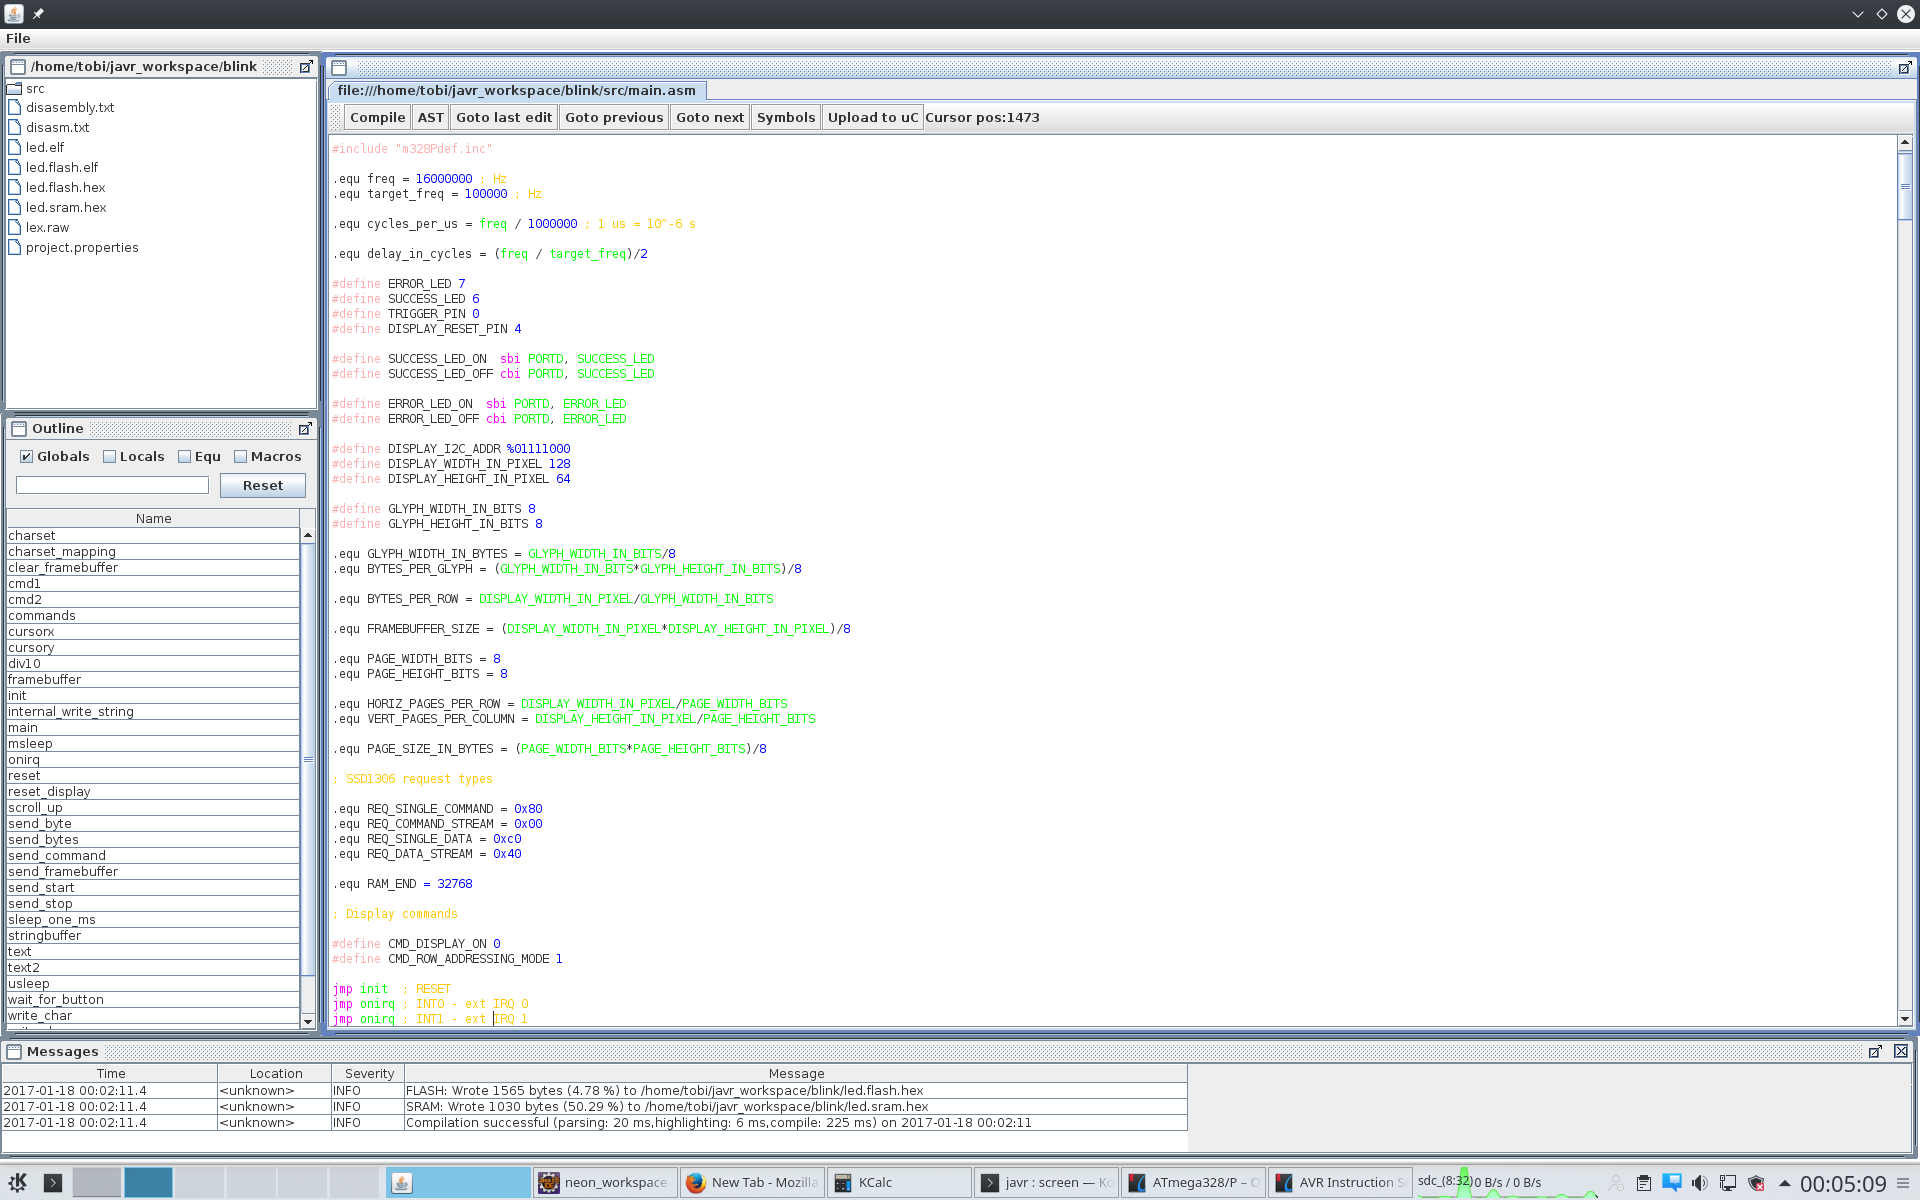
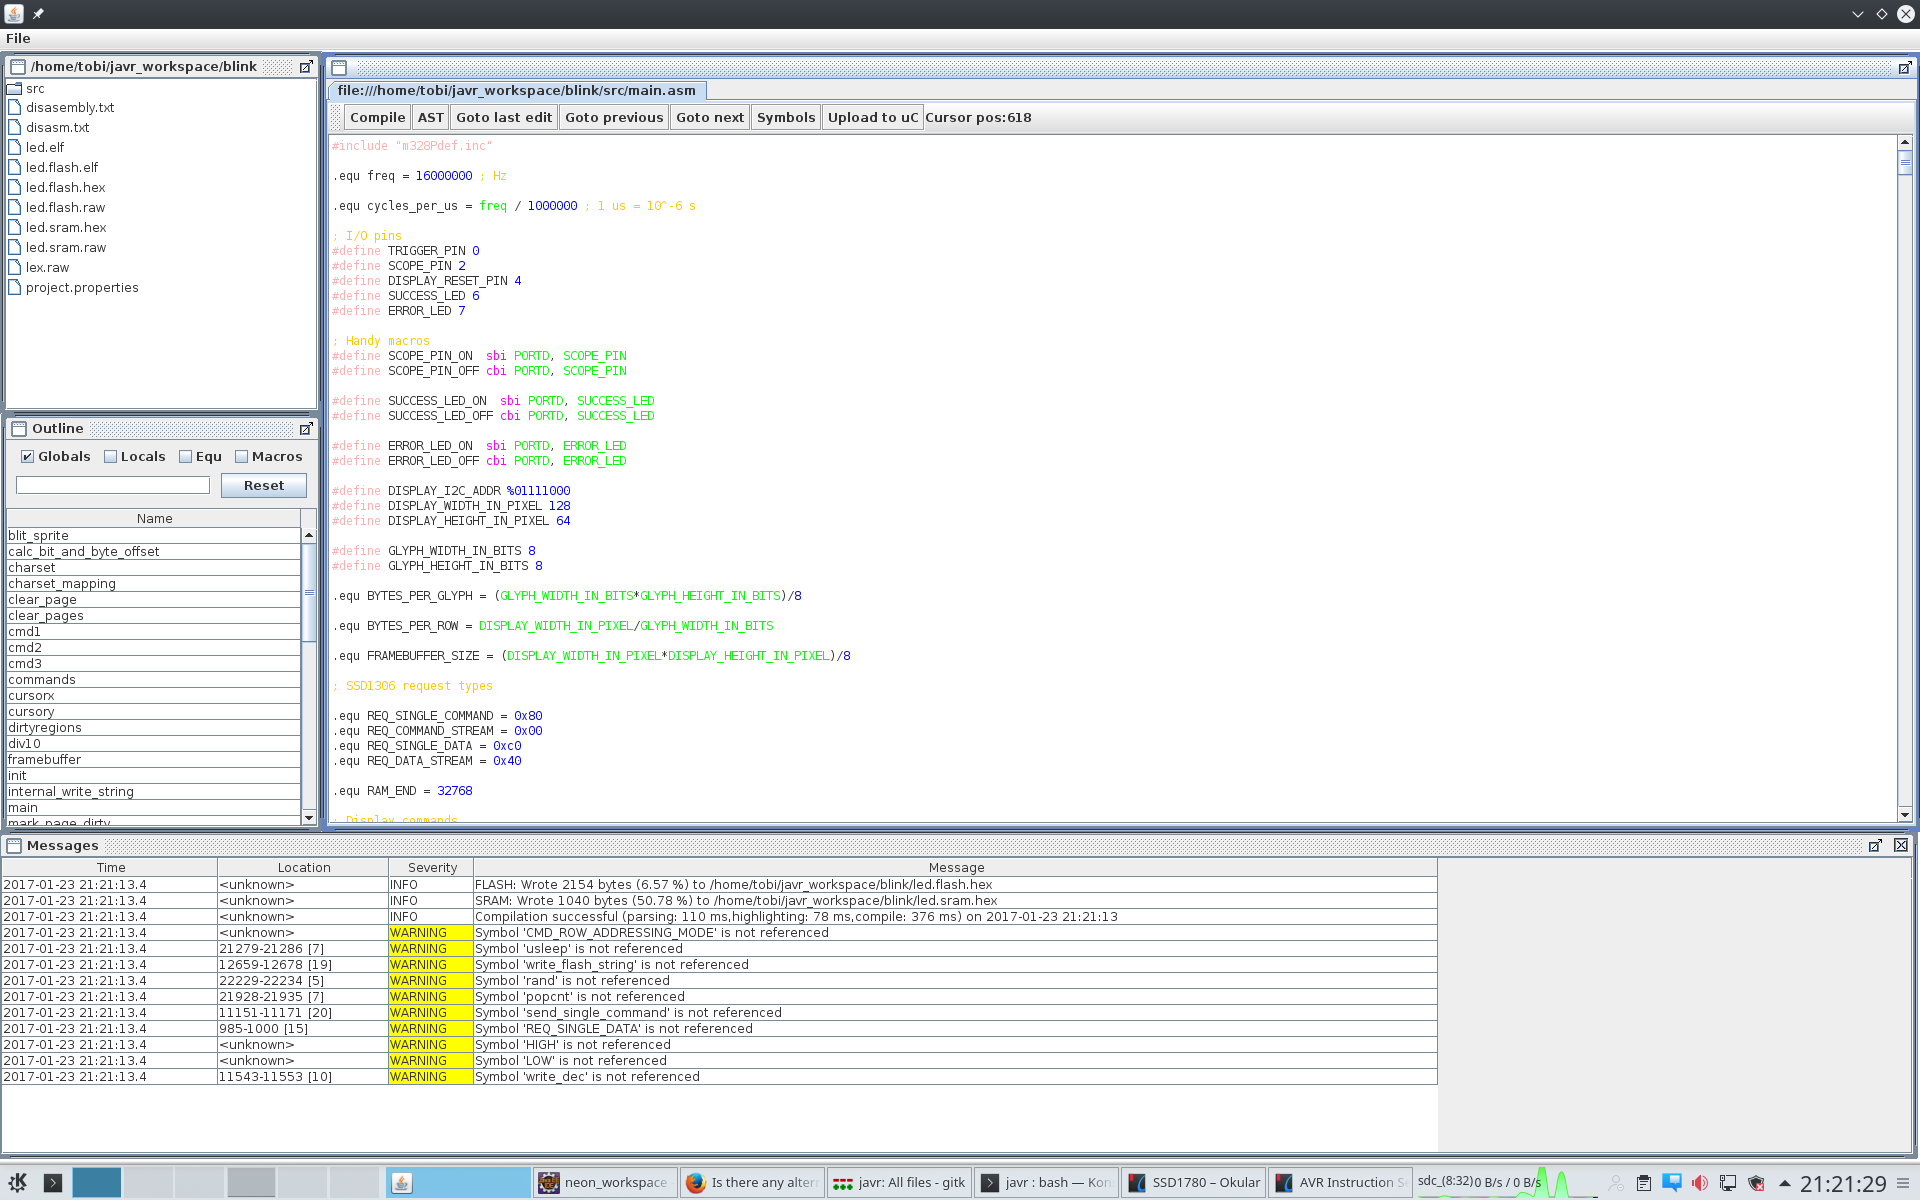
added warnings for unreferenced symbols,double-clicking nodes in AST view jumps to text location

diff --git a/src/main/java/de/codesourcery/javr/ui/panels/EditorPanel.java b/src/main/java/de/codesourcery/javr/ui/panels/EditorPanel.java
@@ -49,7 +49,6 @@ import java.util.List;
 import java.util.concurrent.atomic.AtomicBoolean;
 import java.util.function.Consumer;
 import java.util.function.Function;
-import java.util.function.IntSupplier;
 
 import javax.swing.JButton;
 import javax.swing.JFrame;
@@ -126,9 +125,9 @@ import de.codesourcery.javr.assembler.symbols.Symbol;
 import de.codesourcery.javr.assembler.symbols.SymbolTable;
 import de.codesourcery.javr.assembler.util.Resource;
 import de.codesourcery.javr.assembler.util.StringResource;
-import de.codesourcery.javr.ui.EditorSettings.SourceElement;
 import de.codesourcery.javr.ui.CaretPositionTracker;
 import de.codesourcery.javr.ui.CaretPositionTracker.CaretPosition;
+import de.codesourcery.javr.ui.EditorSettings.SourceElement;
 import de.codesourcery.javr.ui.IDEMain;
 import de.codesourcery.javr.ui.IProject;
 import de.codesourcery.javr.ui.config.IApplicationConfig;
@@ -167,7 +166,7 @@ public class EditorPanel extends JPanel
 	private JFrame searchWindow = null;
 
 	private JFrame symbolWindow = null;
-
+	
 	private final SymbolTableModel symbolModel = new SymbolTableModel();
 
 	private final RecompilationThread recompilationThread = new RecompilationThread();
@@ -1129,7 +1128,7 @@ public class EditorPanel extends JPanel
 		{
 		    final CompilerSettings compilerSettings = new CompilerSettings();
 		    final IObjectCodeWriter writer = new ObjectCodeWriter();
-            final SymbolTable globalSymbolTable = new SymbolTable( SymbolTable.GLOBAL ); // fake global symbol table so we don't fail parsing because of duplicate symbols
+            final SymbolTable globalSymbolTable = new SymbolTable( SymbolTable.GLOBAL ); // fake global symbol table so we don't fail parsing because of duplicate symbols already in the real one
 			final ICompilationContext context = new CompilationContext( tmpUnit , globalSymbolTable , writer , project , compilerSettings , project.getConfig() );
 
             ParseSourcePhase.parseWithoutIncludes( context, tmpUnit , project );
@@ -1150,7 +1149,6 @@ public class EditorPanel extends JPanel
 		try 
 		{
 			compilationSuccessful = project.compile();
-
 		} 
 		catch(Exception e) 
 		{
@@ -1158,7 +1156,7 @@ public class EditorPanel extends JPanel
 			root.addMessage( toCompilationMessage( currentUnit, e ) );
 		}
 		symbolModel.setSymbolTable( currentUnit.getSymbolTable() );    
-
+		
 		final long compileEnd =  System.currentTimeMillis();
 		
 		final String success = compilationSuccessful ? "successful" : "failed"; 
@@ -1173,6 +1171,23 @@ public class EditorPanel extends JPanel
 		currentUnit.addMessage( CompilationMessage.info(currentUnit,"Compilation "+success+" ("+assembleTime+") on "+df.format( ZonedDateTime.now() ) ) );
 
         final List<CompilationMessage> allMessages = root.getMessages(true);
+        
+        // create warnings for symbols defined in this unit but not used anywhere
+        if ( compilationSuccessful ) 
+        {
+            project.getGlobalSymbolTable().visitSymbols( (symbol) -> 
+            {
+                if ( symbol.getCompilationUnit().hasSameResourceAs( this.currentUnit ) ) 
+                {
+                    if ( ! symbol.isReferenced() ) 
+                    {
+                        allMessages.add( CompilationMessage.warning( currentUnit, "Symbol '"+symbol.name()+"' is not referenced" , symbol.getNode() ) );
+                    }
+                }
+                return true;
+            });
+        }
+        
         messageFrame.addAll( allMessages );        
         
         wasCompiledAtLeastOnce = true;
@@ -1357,6 +1372,24 @@ public class EditorPanel extends JPanel
 		});
 
 		final JTree tree = new JTree( astTreeModel );
+		
+		tree.addMouseListener( new MouseAdapter() 
+		{
+		    public void mouseClicked(MouseEvent e) 
+		    {
+		        if ( e.getClickCount() == 2 && e.getButton() == MouseEvent.BUTTON1 ) 
+		        {
+		            final TreePath path = tree.getClosestPathForLocation( e.getX() ,  e.getY() );
+		            if ( path != null && path.getPath() != null && path.getPath().length >= 1 ) 
+		            {
+		                final ASTNode node = (ASTNode) path.getLastPathComponent();
+		                if ( node.getTextRegion() != null ) {
+		                    setSelection( node.getTextRegion() );
+		                }
+		            }
+		        }
+		    }
+		});
 
 		tree.setCellRenderer( new DefaultTreeCellRenderer() 
 		{
@@ -1378,18 +1411,18 @@ public class EditorPanel extends JPanel
 					else  if ( node instanceof PreprocessorNode) {
 						text = "#"+((PreprocessorNode) node).type.literal;
 					} else if ( node instanceof OperatorNode) {
-						text = "Operator: "+((OperatorNode) node).type.getSymbol();
+						text = "OperatorNode: "+((OperatorNode) node).type.getSymbol();
 					} else  if ( node instanceof IdentifierNode) {
-						text = "identifier: "+((IdentifierNode) node).name.value;
+						text = "IdentifierNode: "+((IdentifierNode) node).name.value;
 					}
 					else if ( node instanceof StatementNode) {
-						text = "statement";
+						text = "StatementNode";
 					}                     
 					else if ( node instanceof LabelNode) {
-						text = "label:"+((LabelNode) node).identifier.value;
+						text = "LabelNode:"+((LabelNode) node).identifier.value;
 					} 
 					else if ( node instanceof CommentNode) {
-						text = "comment: "+((CommentNode) node).value;
+						text = "CommentNode: "+((CommentNode) node).value;
 					}                     
 					else if ( node instanceof NumberLiteralNode ) 
 					{

diff --git a/src/main/java/de/codesourcery/javr/assembler/parser/ast/FunctionCallNode.java b/src/main/java/de/codesourcery/javr/assembler/parser/ast/FunctionCallNode.java
@@ -29,6 +29,8 @@ import de.codesourcery.javr.assembler.symbols.Symbol.Type;
 public class FunctionCallNode extends AbstractASTNode implements IValueNode, Resolvable {
 
     public static final Identifier BUILDIN_FUNCTION_DEFINED = new Identifier("defined");
+    public static final Identifier BUILDIN_FUNCTION_HIGH = new Identifier("HIGH");
+    public static final Identifier BUILDIN_FUNCTION_LOW = new Identifier("LOW");
     
     public final Identifier functionName;
     
@@ -51,7 +53,6 @@ public class FunctionCallNode extends AbstractASTNode implements IValueNode, Res
         if ( childCount() == 1 ) 
         {
             final IValueNode child = (IValueNode) child(0);
-            final String name = functionName.value;
             if ( BUILDIN_FUNCTION_DEFINED.equals( functionName ) )
             {
                 if ( !(child instanceof IdentifierNode )) {
@@ -60,10 +61,11 @@ public class FunctionCallNode extends AbstractASTNode implements IValueNode, Res
                 }
                 final Identifier identifier = ((IdentifierNode) child).name;
                 final Optional<Symbol> result = context.currentSymbolTable().maybeGet( identifier );
+                result.ifPresent( s -> s.markAsReferenced() );
                 this.value = result.isPresent() && result.get().getType() == Type.PREPROCESSOR_MACRO;
                 return true;
             } 
-            if ( name.equals("HIGH") || name.equals("LOW" ) ) 
+            if ( functionName.equals( BUILDIN_FUNCTION_HIGH ) || functionName.equals( BUILDIN_FUNCTION_LOW ) ) 
             {
                 if ( child instanceof Resolvable) {
                     ((Resolvable) child).resolve( context );
@@ -81,7 +83,8 @@ public class FunctionCallNode extends AbstractASTNode implements IValueNode, Res
                     return false;
                 }
                 
-                switch ( name ) {
+                switch ( functionName.value ) 
+                {
                     case "HIGH": v = ( v.longValue() >>> 8 ) & 0xff; break;
                     case "LOW": v = v.longValue() & 0xff; break;
                     default: 
@@ -90,7 +93,7 @@ public class FunctionCallNode extends AbstractASTNode implements IValueNode, Res
                 this.value = v;
                 return true;
             }
-            context.error("Unknown built-in function "+name,this);
+            context.error("Unknown function "+functionName.value,this);
         } else {
             System.out.println(">>>> function with no arguments?");
         }

diff --git a/src/main/java/de/codesourcery/javr/assembler/phases/PrepareGenerateCodePhase.java b/src/main/java/de/codesourcery/javr/assembler/phases/PrepareGenerateCodePhase.java
@@ -15,12 +15,11 @@
  */
 package de.codesourcery.javr.assembler.phases;
 
-import java.util.List;
+import java.util.Optional;
 
 import org.apache.log4j.Logger;
 
 import de.codesourcery.javr.assembler.ICompilationContext;
-import de.codesourcery.javr.assembler.Segment;
 import de.codesourcery.javr.assembler.parser.Identifier;
 import de.codesourcery.javr.assembler.parser.ast.AST;
 import de.codesourcery.javr.assembler.parser.ast.ASTNode;
@@ -110,17 +109,22 @@ public class PrepareGenerateCodePhase extends GenerateCodePhase
                 else if ( node instanceof IdentifierNode) 
                 {
                     final IdentifierNode id = (IdentifierNode) node;
-                    if ( ! context.globalSymbolTable().isDefined( id.name ) ) 
+                    final Optional<Symbol> symbol = context.globalSymbolTable().maybeGet( id.name );
+                    if ( ! symbol.isPresent() || symbol.get().isUndefined() ) // this node refers to a symbol that is missing or undefined 
                     {
                         if ( previousGlobalLabel != null ) 
                         {
                             final Identifier localVar = Identifier.newLocalGlobalIdentifier( previousGlobalLabel.identifier , id.name );
                             if ( context.globalSymbolTable().isDefined( localVar ) ) 
                             {
-                                final Symbol badSymbol = id.getSymbol();
+                                // rewrite IdentifierNode to refer to local label, 
+                                // and remove the global label 
+                                final Symbol badGlobalSymbol = id.getSymbol();
                                 id.setName( localVar );
-                                id.setSymbol( context.globalSymbolTable().get( localVar , Type.ADDRESS_LABEL ) );
-                                context.globalSymbolTable().removeSymbol( badSymbol );
+                                final Symbol localSymbol = context.globalSymbolTable().get( localVar , Type.ADDRESS_LABEL );
+                                localSymbol.markAsReferenced();
+                                id.setSymbol( localSymbol );
+                                context.globalSymbolTable().removeSymbol( badGlobalSymbol );
                             }
                         }
                     }

diff --git a/src/main/java/de/codesourcery/javr/assembler/parser/Parser.java b/src/main/java/de/codesourcery/javr/assembler/parser/Parser.java
@@ -211,7 +211,6 @@ public class Parser
     {
         initialize(context,unit,lexer);
         
-        int stmtCount = 0;
         while ( ! this.lexer.eof() ) 
         {
             try 
@@ -222,7 +221,6 @@ public class Parser
                     throw new ParseException("Not a valid statement",lexer.peek());
                 }
                 if ( stmt.hasChildren() ) {
-                    stmtCount++;
                     ast.addChild( stmt );
                 }
             } 
@@ -953,11 +951,6 @@ public class Parser
         return yard.getResult( lexer.peek().region() );
     }
 
-    private ASTNode parseAtom(Lexer lexer) 
-    {
-        return parseAtom(lexer,context);
-    }
-    
     private static ASTNode parseAtom(Lexer lexer,ICompilationContext context) 
     {
         // character literal
@@ -1126,21 +1119,5 @@ public class Parser
             }
         }
         return null;
-    }
-
-    private boolean parseEOL() {
-
-        if ( lexer.peek().isEOLorEOF() ) 
-        {
-            if ( lexer.eof() ) 
-            {
-                return true;
-            }            
-            while ( lexer.peek().isEOL() ) { // consume all linefeeds
-                lexer.next();
-            }
-            return true;
-        }
-        return false;
     }
 }

diff --git a/src/main/java/de/codesourcery/javr/assembler/symbols/Symbol.java b/src/main/java/de/codesourcery/javr/assembler/symbols/Symbol.java
@@ -40,6 +40,7 @@ public final class Symbol
     private Type type;
     private Object value;
     private TextRegion textRegion;
+    private boolean isReferenced;
     
     public static enum Type 
     {
@@ -149,4 +150,40 @@ public final class Symbol
     public void setTextRegion(TextRegion textRegion) {
         this.textRegion = textRegion;
     }
+    
+    /**
+     * Marks this symbol as being referenced at least once somewhere.
+     */
+    public void markAsReferenced() {
+        this.isReferenced = true;
+    }
+    
+    /**
+     * Returns whether this symbol is referenced at least once somewhere.
+     * 
+     * @return
+     */
+    public boolean isReferenced() {
+        return isReferenced;
+    }
+    
+    /**
+     * Check whether this symbol has a type that is not {@link Type#UNDEFINED}.
+     * 
+     * @return
+     */
+    public boolean isDefined() 
+    {
+        return this.getType() != Type.UNDEFINED;
+    }
+    
+    /**
+     * Check whether this symbol has type {@link Type#UNDEFINED}.
+     * 
+     * @return
+     */    
+    public boolean isUndefined() 
+    {
+        return ! isDefined();
+    }    
 }

diff --git a/src/main/java/de/codesourcery/javr/assembler/phases/GatherSymbolsPhase.java b/src/main/java/de/codesourcery/javr/assembler/phases/GatherSymbolsPhase.java
@@ -15,23 +15,9 @@
  */
 package de.codesourcery.javr.assembler.phases;
 
-import java.util.List;
-
 import de.codesourcery.javr.assembler.ICompilationContext;
-import de.codesourcery.javr.assembler.exceptions.DuplicateSymbolException;
 import de.codesourcery.javr.assembler.parser.Identifier;
 import de.codesourcery.javr.assembler.parser.Parser.CompilationMessage;
-import de.codesourcery.javr.assembler.parser.ast.AST;
-import de.codesourcery.javr.assembler.parser.ast.ASTNode;
-import de.codesourcery.javr.assembler.parser.ast.ASTNode.IASTVisitor;
-import de.codesourcery.javr.assembler.parser.ast.ASTNode.IIterationContext;
-import de.codesourcery.javr.assembler.parser.ast.DirectiveNode;
-import de.codesourcery.javr.assembler.parser.ast.DirectiveNode.Directive;
-import de.codesourcery.javr.assembler.parser.ast.EquLabelNode;
-import de.codesourcery.javr.assembler.parser.ast.FunctionDefinitionNode;
-import de.codesourcery.javr.assembler.parser.ast.IdentifierNode;
-import de.codesourcery.javr.assembler.parser.ast.LabelNode;
-import de.codesourcery.javr.assembler.symbols.Symbol;
 import de.codesourcery.javr.assembler.symbols.Symbol.Type;
 
 /**

diff --git a/src/main/java/de/codesourcery/javr/assembler/parser/PreprocessingLexer.java b/src/main/java/de/codesourcery/javr/assembler/parser/PreprocessingLexer.java
@@ -654,10 +654,12 @@ public class PreprocessingLexer implements Lexer
                 {
                     continue;
                 }
+                
                 expanded.add( macroName.value );
                 anyIdentifiersExpanded = true;
 
                 final Symbol symbol = optSymbol.get();
+                symbol.markAsReferenced();
                 final MacroDefinition macroDef = (MacroDefinition) symbol.getValue();		
 
                 // check whether first non-whitespace token is opening parenthesis (=start of argument list) 

diff --git a/src/main/java/de/codesourcery/javr/assembler/phases/ExpandMacrosPhase.java b/src/main/java/de/codesourcery/javr/assembler/phases/ExpandMacrosPhase.java
@@ -36,6 +36,7 @@ public class ExpandMacrosPhase extends AbstractPhase
                     {
                         if ( symbol.getValue() != null && symbol.hasType( Type.PREPROCESSOR_MACRO ) ) 
                         {
+                            symbol.markAsReferenced();
                             final FunctionDefinitionNode macroDefinition = (FunctionDefinitionNode) symbol.getValue();
                             if ( macroDefinition.hasArguments() ) 
                             {

diff --git a/src/main/java/de/codesourcery/javr/assembler/parser/ast/IdentifierNode.java b/src/main/java/de/codesourcery/javr/assembler/parser/ast/IdentifierNode.java
@@ -75,6 +75,9 @@ public class IdentifierNode extends AbstractASTNode implements IValueNode,Resolv
     {
         if ( symbol == null ) {
             symbol = context.currentSymbolTable().maybeGet( name ).orElse( null );
+            if ( symbol != null ) {
+                symbol.markAsReferenced();
+            }
         }
         return symbol != null;
     }

diff --git a/src/main/java/de/codesourcery/javr/assembler/symbols/SymbolTable.java b/src/main/java/de/codesourcery/javr/assembler/symbols/SymbolTable.java
@@ -226,7 +226,7 @@ public class SymbolTable
     {
         Validate.notNull(name, "name must not be NULL");
         final Symbol existing = internalGet( name );
-        return existing != null && ! existing.hasType( Type.UNDEFINED );
+        return existing != null && existing.isDefined();
     }
     
     public boolean isDeclared(Identifier name) 

diff --git a/src/main/java/de/codesourcery/javr/assembler/CompilationUnit.java b/src/main/java/de/codesourcery/javr/assembler/CompilationUnit.java
@@ -80,7 +80,7 @@ public class CompilationUnit
     
     public boolean hasSameResourceAs(CompilationUnit other) 
     {
-        return this.resource.pointsToSameData( other.resource );
+        return this.resource == other.resource || this.resource.pointsToSameData( other.resource );
     }
 
     public boolean isDirty() 
